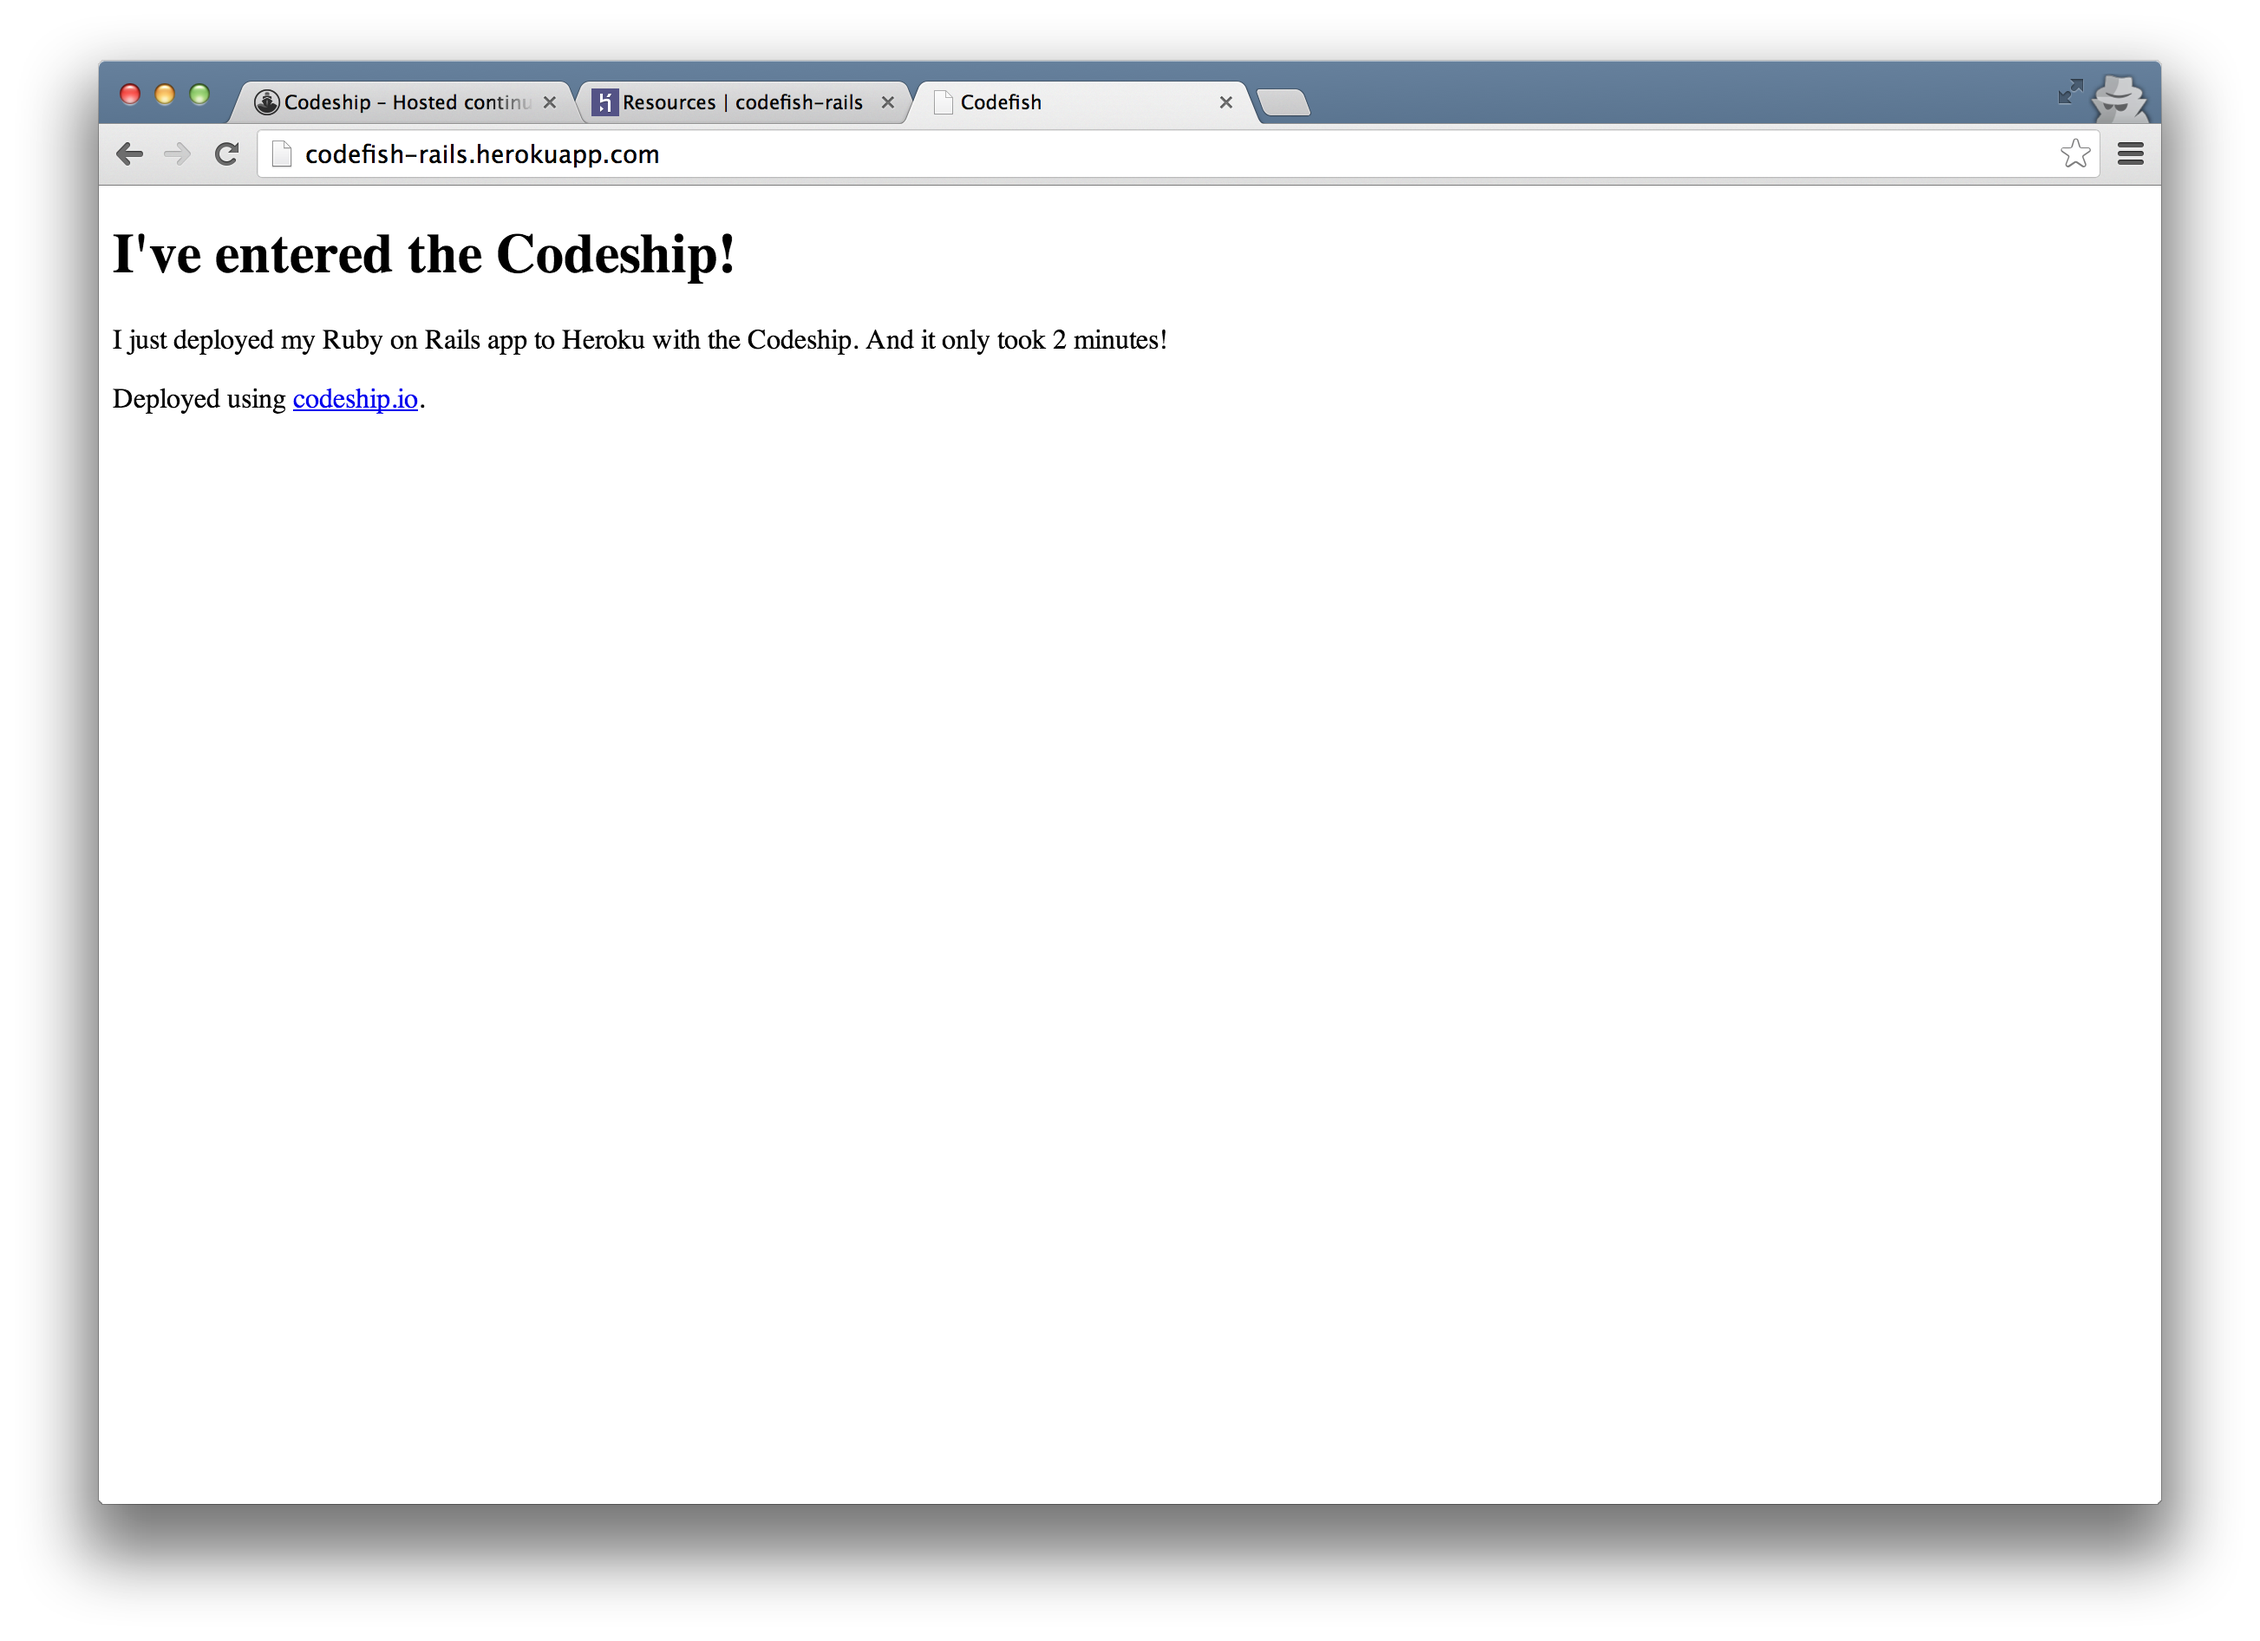
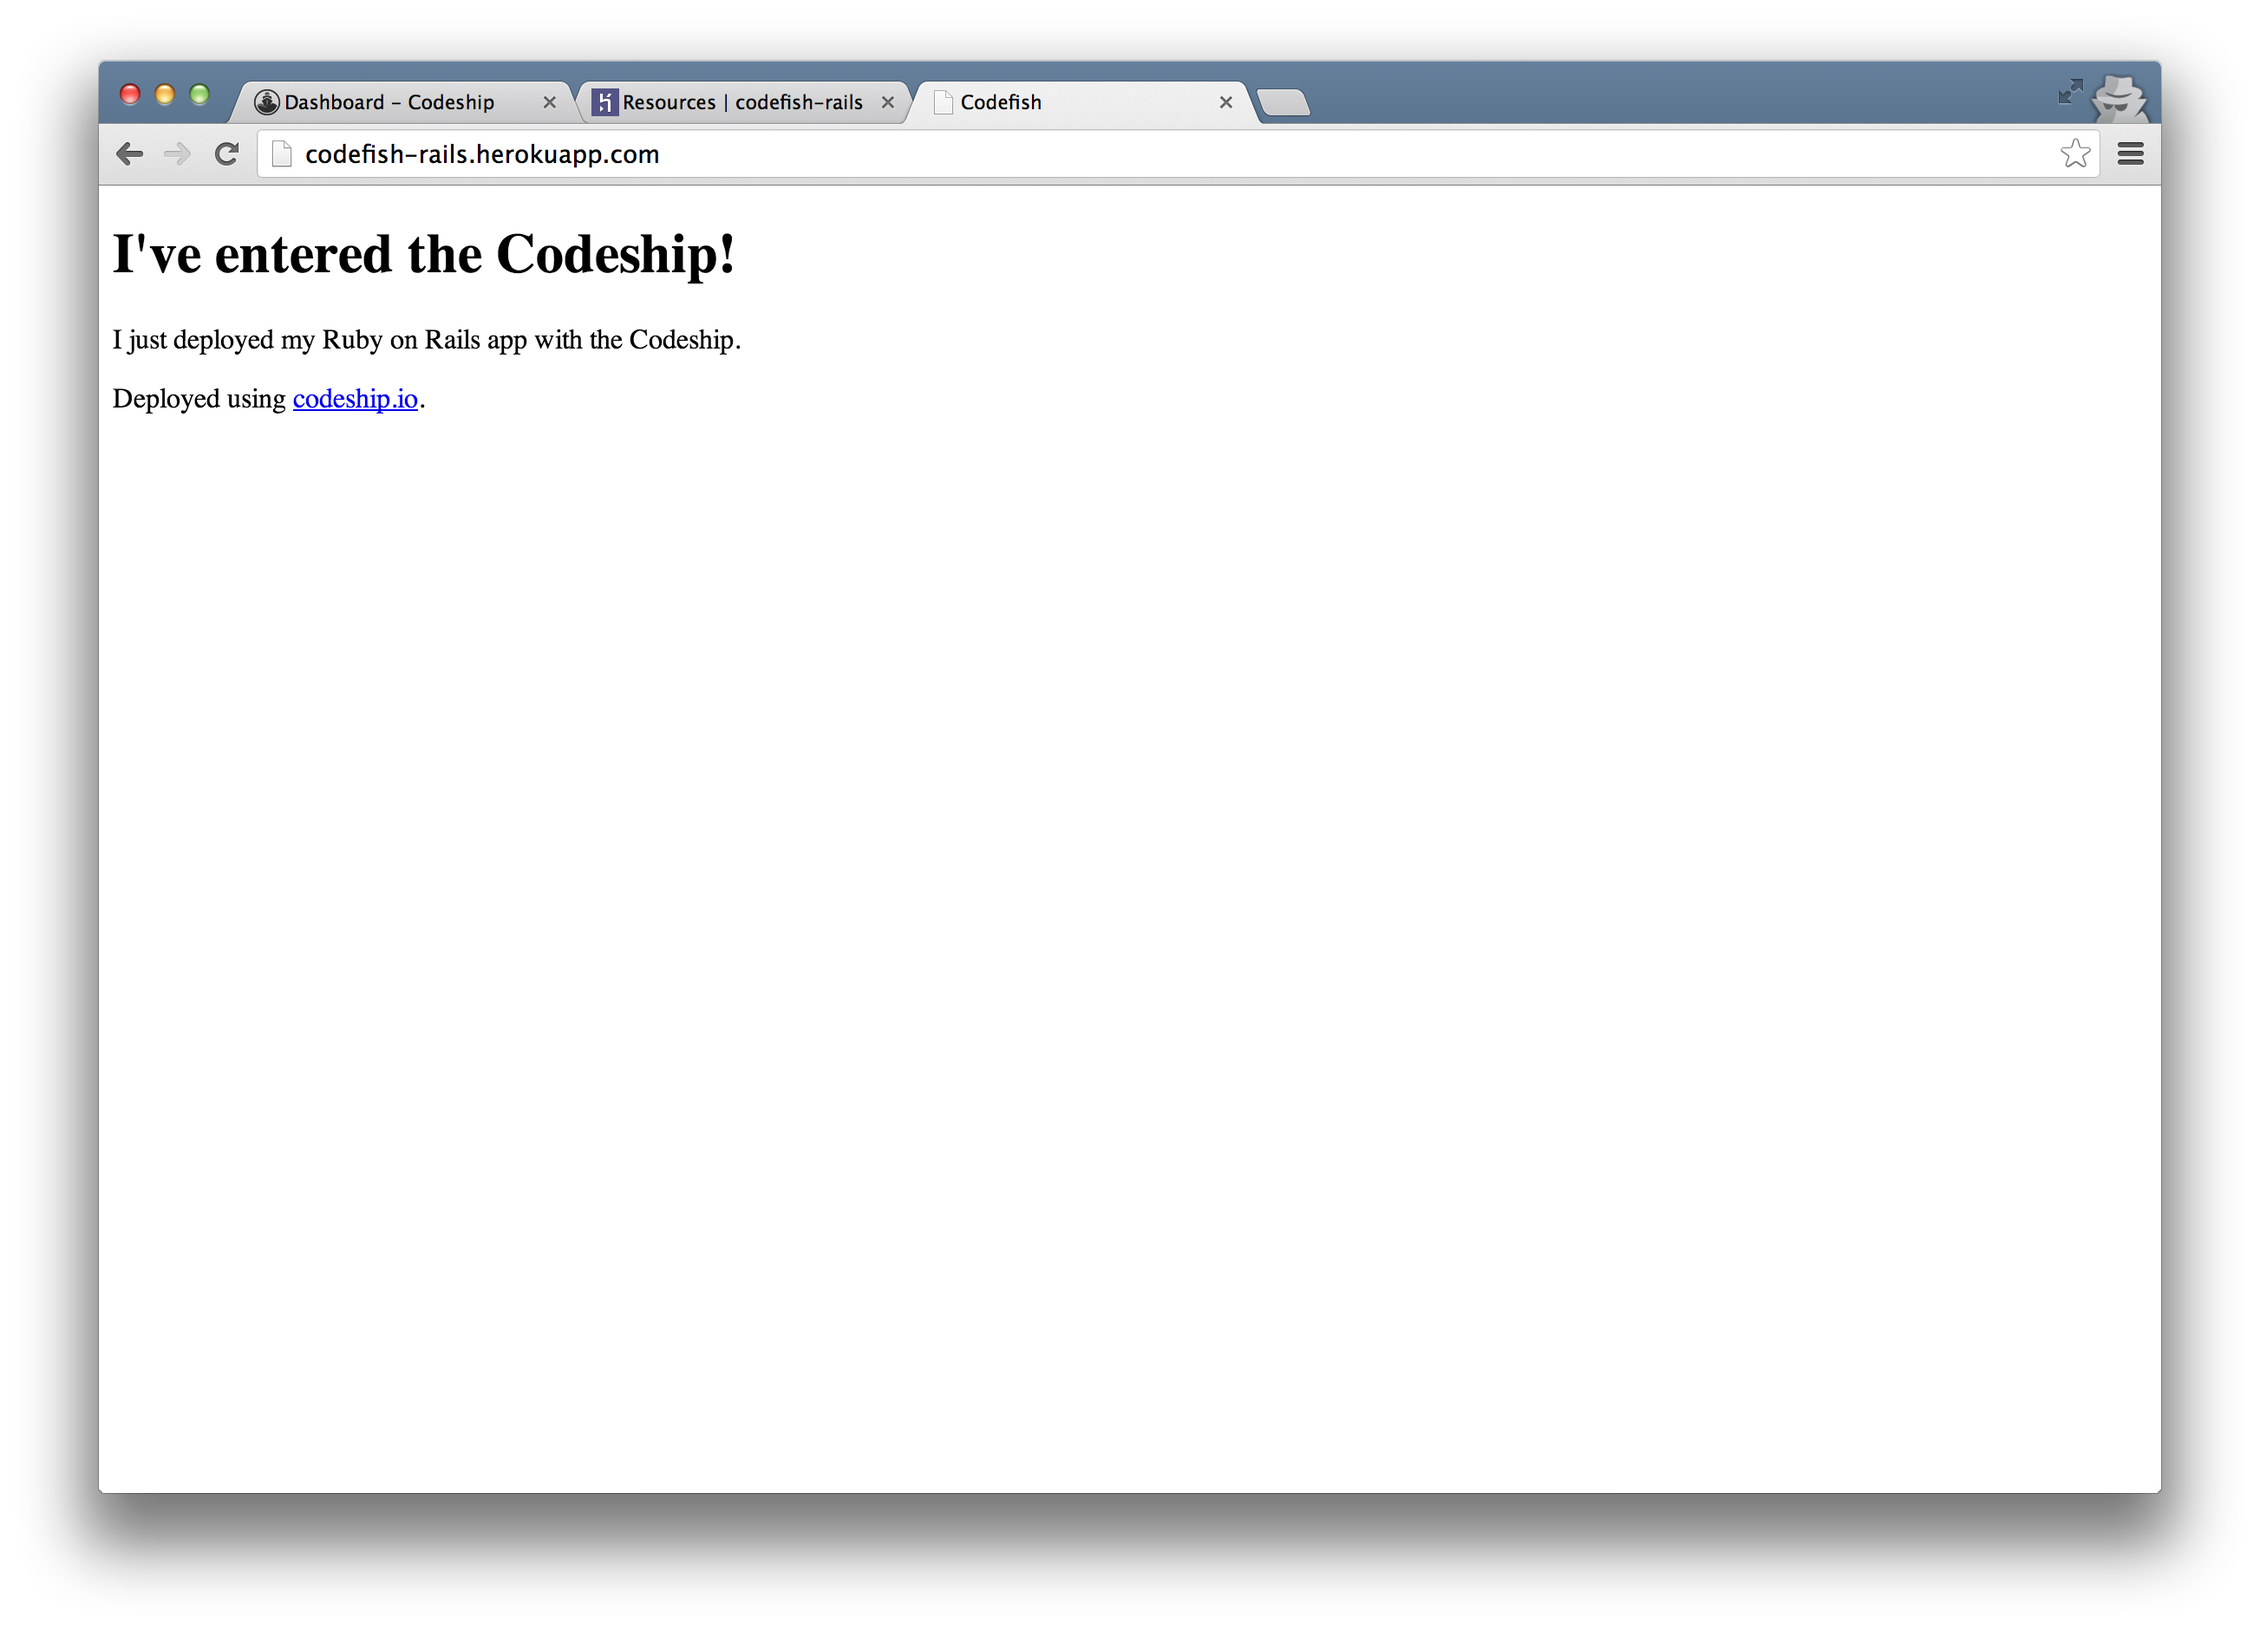
Updated deployed application screenshot.

diff --git a/rails/github/heroku/storyboard.md b/rails/github/heroku/storyboard.md
@@ -136,9 +136,8 @@ Now let's save our deployment configuration.
 
 ![Saved Heroku deployment](screenshots/saved-heroku-deployment.png)
 
-From now on the Codeship will deploy our application to Heroku everytime we push to our GitHub repository. Now let's push a change and see if it gets deployed. I add a paragraph "I just deployed my Ruby on Rails app with the Codeship" to the landing page.
+From now on the Codeship will deploy our application to Heroku everytime we push to our GitHub repository. Now let's push a change and see if it gets deployed. I add a paragraph "I just deployed my Ruby on Rails app with the Codeship." to the landing page.
 
-TODO: Change screenshot to new paragraph
 ![Added Paragraph](screenshots/added-paragraph.png)
 
 I commit and push the change
@@ -159,7 +158,6 @@ And about 2 minutes later our application is online.
 
 When we open http://codefish-rails.herokuapp.com/ now, our deployed application appears.
 
-TODO: Change screenshot to new paragraph
 ![Deployed Application](screenshots/deployed-application.png)
 
 If you need help with setting up your own application, please use the support link in the top-right corner or tweet us at codeship!
